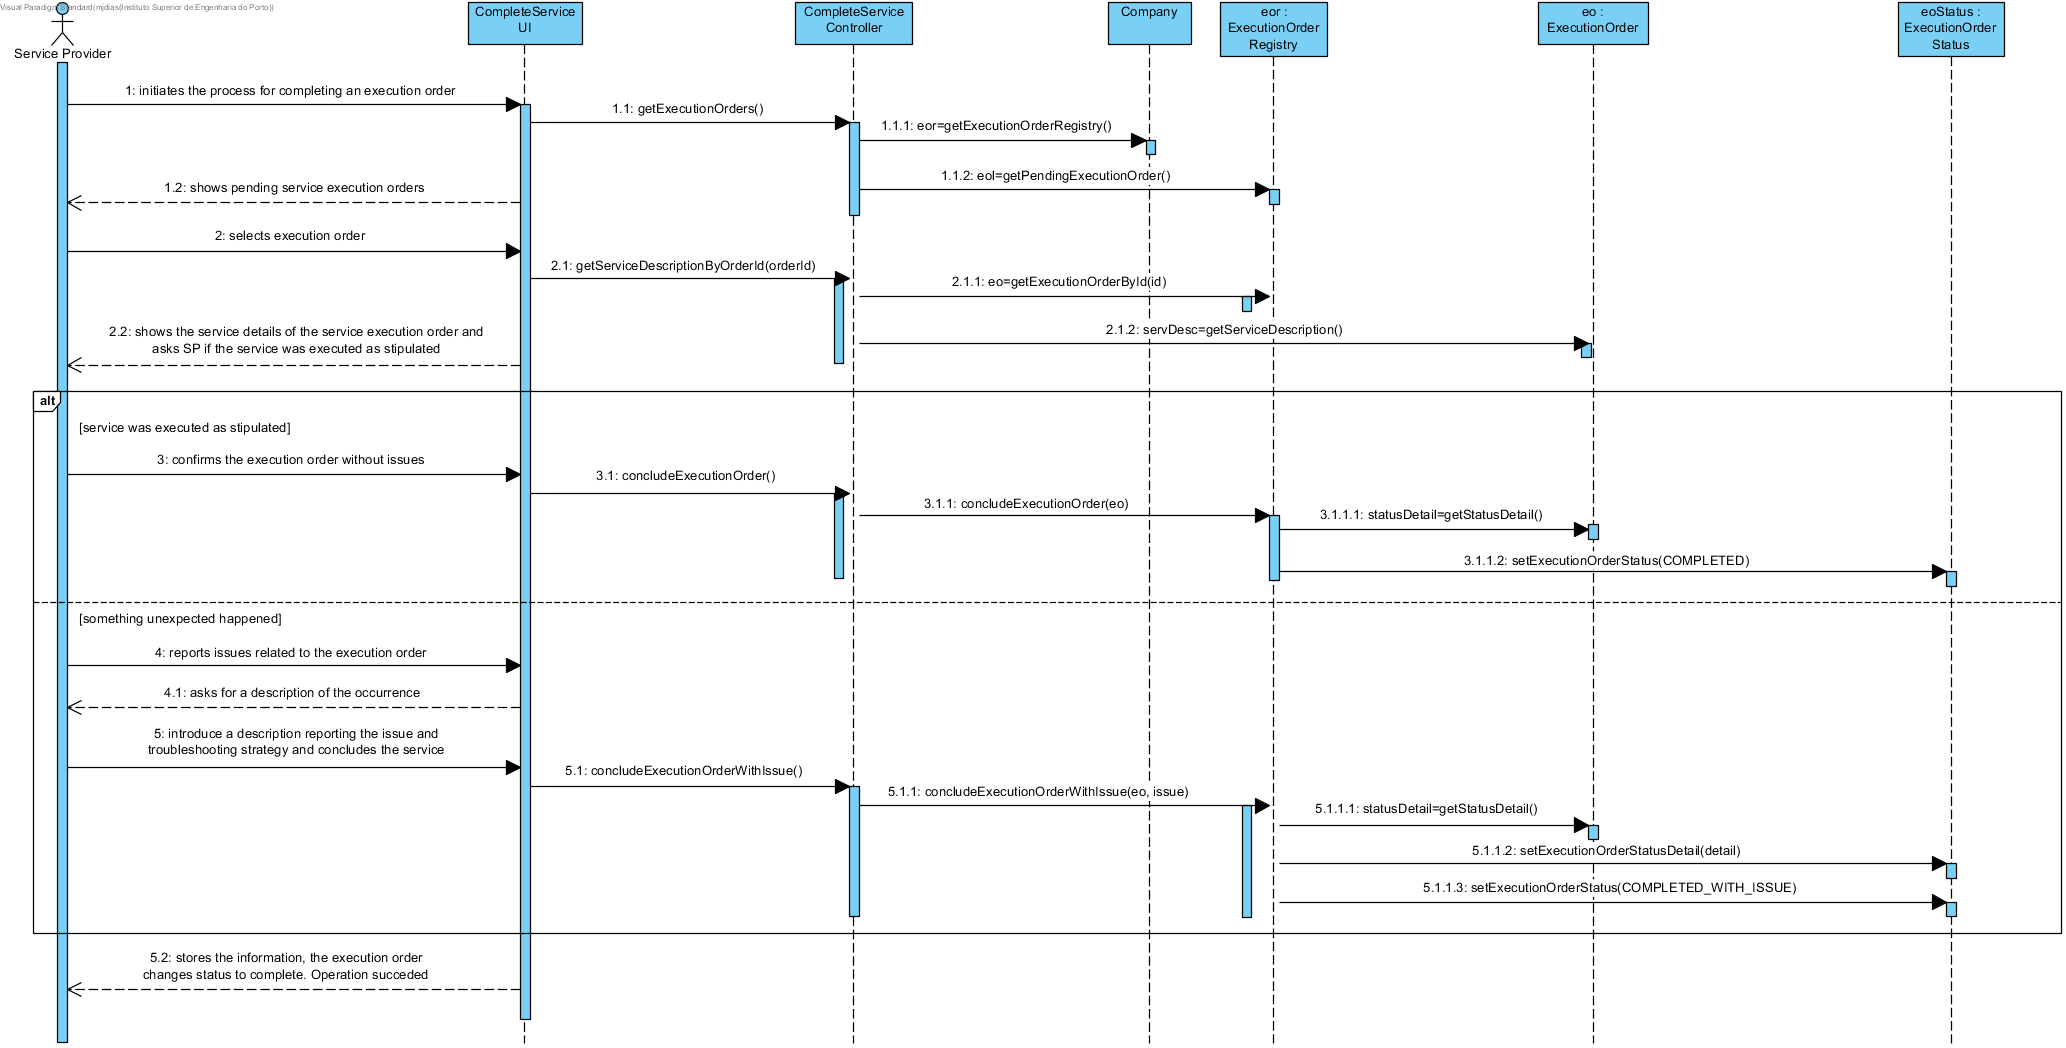
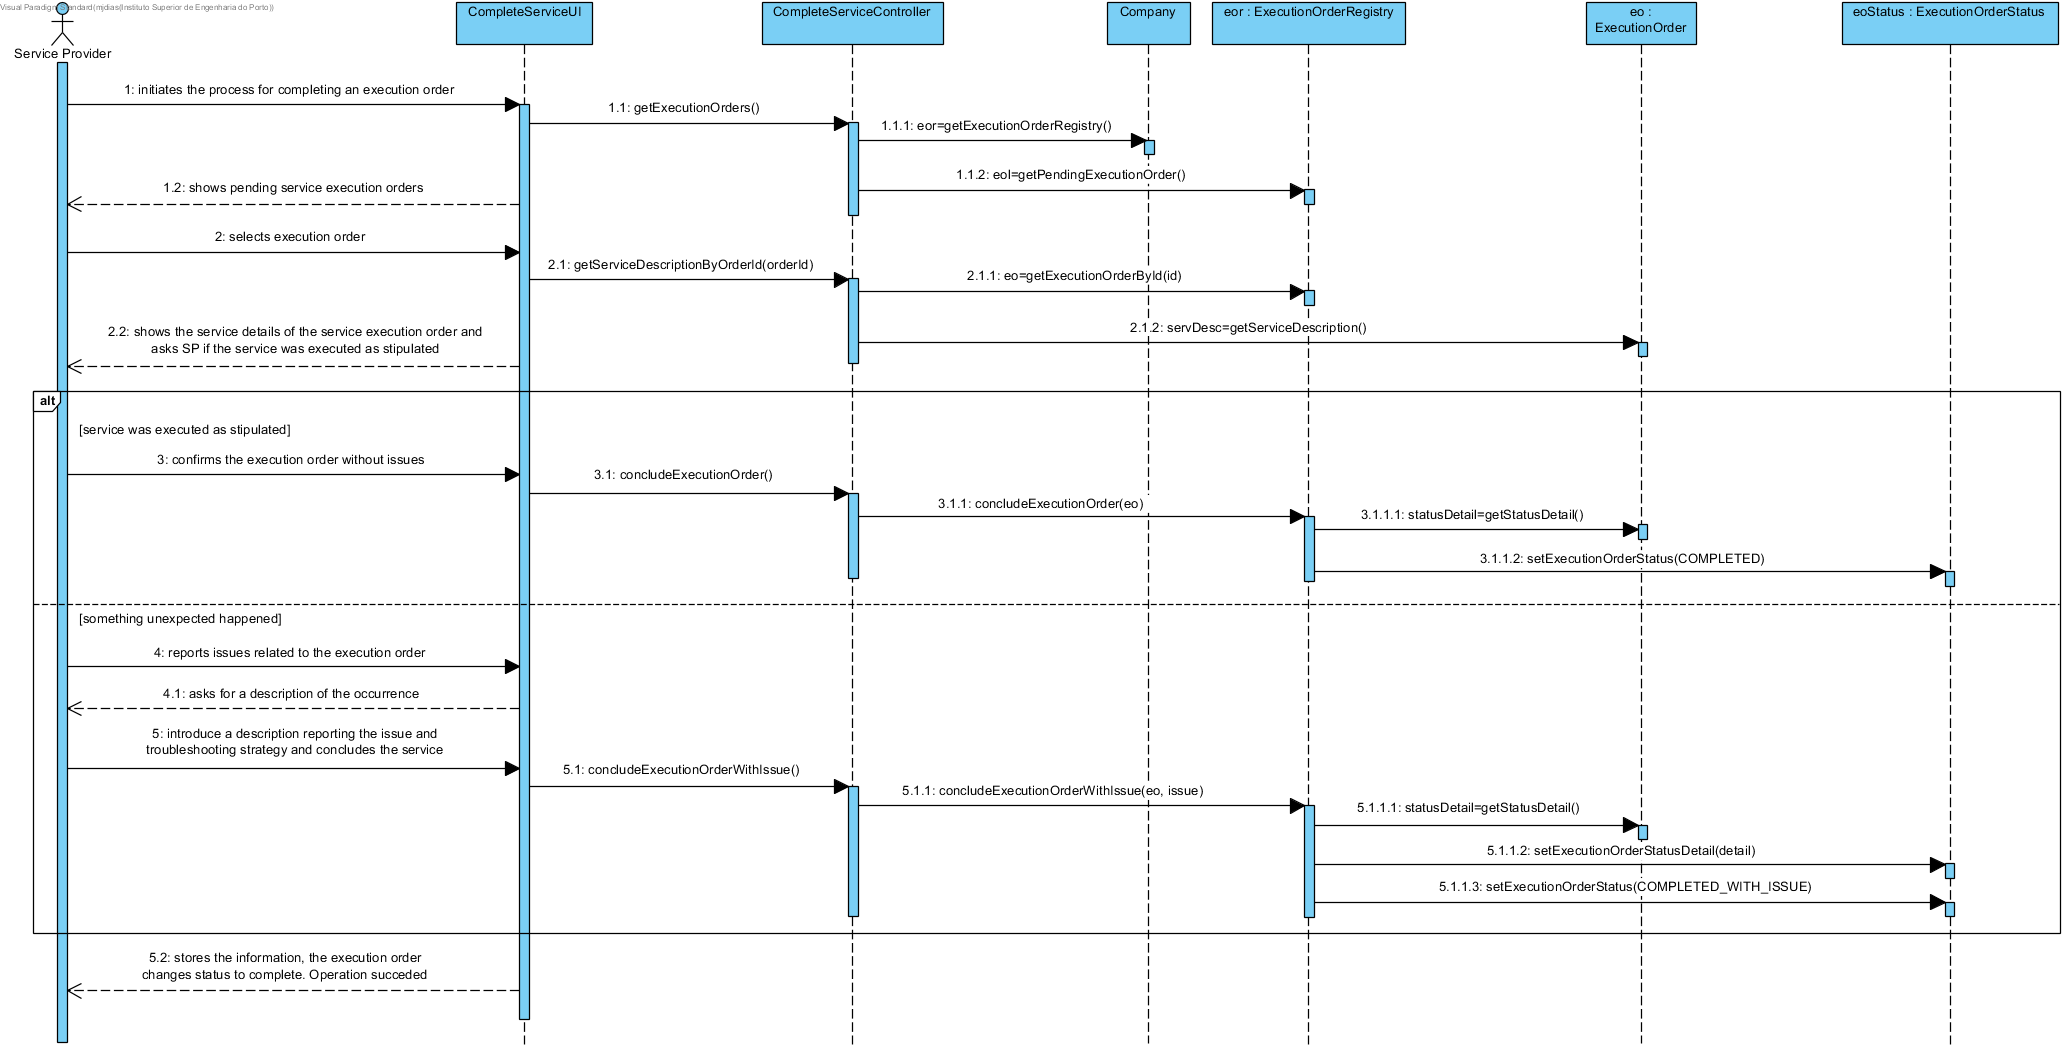
last fix to design [UC-13] [Design]

diff --git a/Design/UC13_CompleteService.md b/Design/UC13_CompleteService.md
@@ -9,8 +9,9 @@
 ||...has the execution orders?|ExecutionOrderRegistry| HC + LC |
 ||...knows the class ExecutionOrderRegistry?|Company| HC + LC |
 ||...knows the status of execution orders?|ExecutionOrder|IE|
+||...knows the service description of execution orders?|ExecutionOrder|IE|
 |3. The Service Provider selects one.||||
-|4. The system shows the details of the service of the execution order and asks SP if the service was executed as stipulated.||||
+|4. The system shows service details of the execution order and asks SP if the service was executed as stipulated.||||
 ||...knows the service details in the execution orders?|ExecutionOrder|IE|
 |5. The SP can confirm or report any occurrence.||||
 |6. The service was executed as stipulated, the SP concludes it.|...is responsible for saving the new status of the execution order?|ExecutionOrderStatus|IE|
@@ -38,7 +39,7 @@
 
 ##	Sequence Diagram
 
-![SD_UC13_v2.png](SD_UC13.png)
+![SD_UC13_v2.png](SD_UC13_v2.png)
 
 ##	Class Diagram
 
